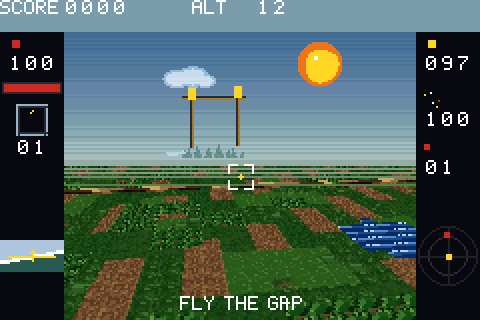
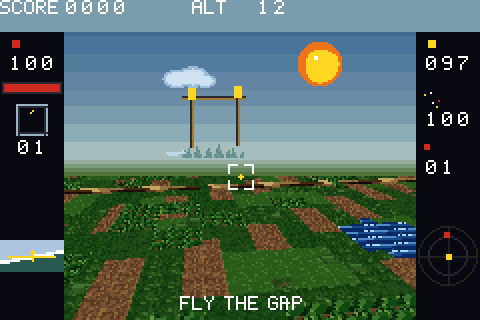
fix: fade the horizon without stripes, and spell the truck card in full
Fog lines taking turns with ground lines, and sky lines taking turns between
two shades, read as stripes across the glass. The sky now steps one shade at
a time, and the farthest ground sits under a solid band of fog that runs from
the haze to nearly the grass's own colour. The truck card said TRUC.

Changed region(s): [[0.125, 0.4375, 0.875, 0.5938]]

diff --git a/src/draw/floor.rs b/src/draw/floor.rs
@@ -316,8 +316,8 @@ pub(crate) fn find_haze_tile() {
 /// Lines from the edge of the ground to the top of the ramp.
 const HAZE_SPAN: i32 = 96;
 
-/// Lines of ground under the sky that the haze still covers in part.
-const FOG_BAND: i32 = 16;
+/// Lines of fog between the sky and the ground: two of each of its shades.
+const FOG_BAND: i32 = 8;
 
 /// Texels of the ramp that are sky, zenith first. The four after them are
 /// the fog: haze thinned toward the ground's own colour.
@@ -329,13 +329,9 @@ pub(crate) const SKY_STEPS: i32 = 12;
 fn haze_line(haze: (i32, i32), sky_h: i32, scanline: i32) -> FloorLine {
     let up = sky_h - 1 - scanline;
     let top = SKY_STEPS - 1;
-    // In quarter steps. Between two texels the lines take turns, a quarter,
-    // a half or three quarters of them a step higher, so the ramp has no bands.
-    let quarters = (up * top * 4 / HAZE_SPAN).min(top * 4);
-    let mut step = top - quarters / 4;
-    if quarters % 4 > [0, 2, 1, 3][(scanline & 3) as usize] {
-        step -= 1;
-    }
+    // Even steps of one shade each. Lines taking turns between two shades
+    // read as stripes on the glass, and a step this small does not show.
+    let step = top - (up * top / HAZE_SPAN).min(top);
     texel_line(haze, step)
 }
 
@@ -397,14 +393,12 @@ pub(crate) fn build_floor(
                 buf[scanline as usize] = haze_line(haze, sky_h, scanline);
             }
             for scanline in sky_h..HEIGHT {
-                // The far ground thins out of the haze over FOG_BAND lines:
-                // first every line is fog, then three in four, and so on, and
-                // the fog itself turns from haze toward the ground's colour.
-                // The farthest rows are the ones that shimmer as the nose turns.
+                // The farthest ground, the rows that shimmer as the nose turns,
+                // lies under a band of fog: solid lines from the haze down to
+                // nearly the grass's own colour, where the field takes over.
                 let depth = scanline - sky_h;
-                let quarters = (FOG_BAND - depth).max(0) * 4 / FOG_BAND;
-                buf[scanline as usize] = if quarters > [0, 2, 1, 3][(scanline & 3) as usize] {
-                    texel_line(haze, SKY_STEPS + (depth * 4 / FOG_BAND).min(3))
+                buf[scanline as usize] = if depth < FOG_BAND {
+                    texel_line(haze, SKY_STEPS + depth * 4 / FOG_BAND)
                 } else {
                     perspective_line(cam_x, cam_y, alt, sin, cos, scanline, horizon)
                 };

diff --git a/src/draw/glass.rs b/src/draw/glass.rs
@@ -524,9 +524,10 @@ fn paint_haze(sky: u16, sensor: Sensor) {
                 |from: i32, to: i32| (from + (to - from) * mix / (last * last)).clamp(0, 31) as u16;
             blend(top.0, low.0) | (blend(top.1, low.1) << 5) | (blend(top.2, low.2) << 10)
         } else {
-            // A fifth of the way to the ground, then two fifths, and on.
-            let mix = step - SKY_STEPS + 1;
-            let blend = |from: i32, to: i32| (from + (to - from) * mix / 5).clamp(0, 31) as u16;
+            // From a third of the way to the grass to nearly all of it, so
+            // the last fog line meets the field without a seam.
+            let mix = 2 + (step - SKY_STEPS) * 2;
+            let blend = |from: i32, to: i32| (from + (to - from) * mix / 9).clamp(0, 31) as u16;
             blend(low.0, ground.0) | (blend(low.1, ground.1) << 5) | (blend(low.2, ground.2) << 10)
         };
         unsafe {
